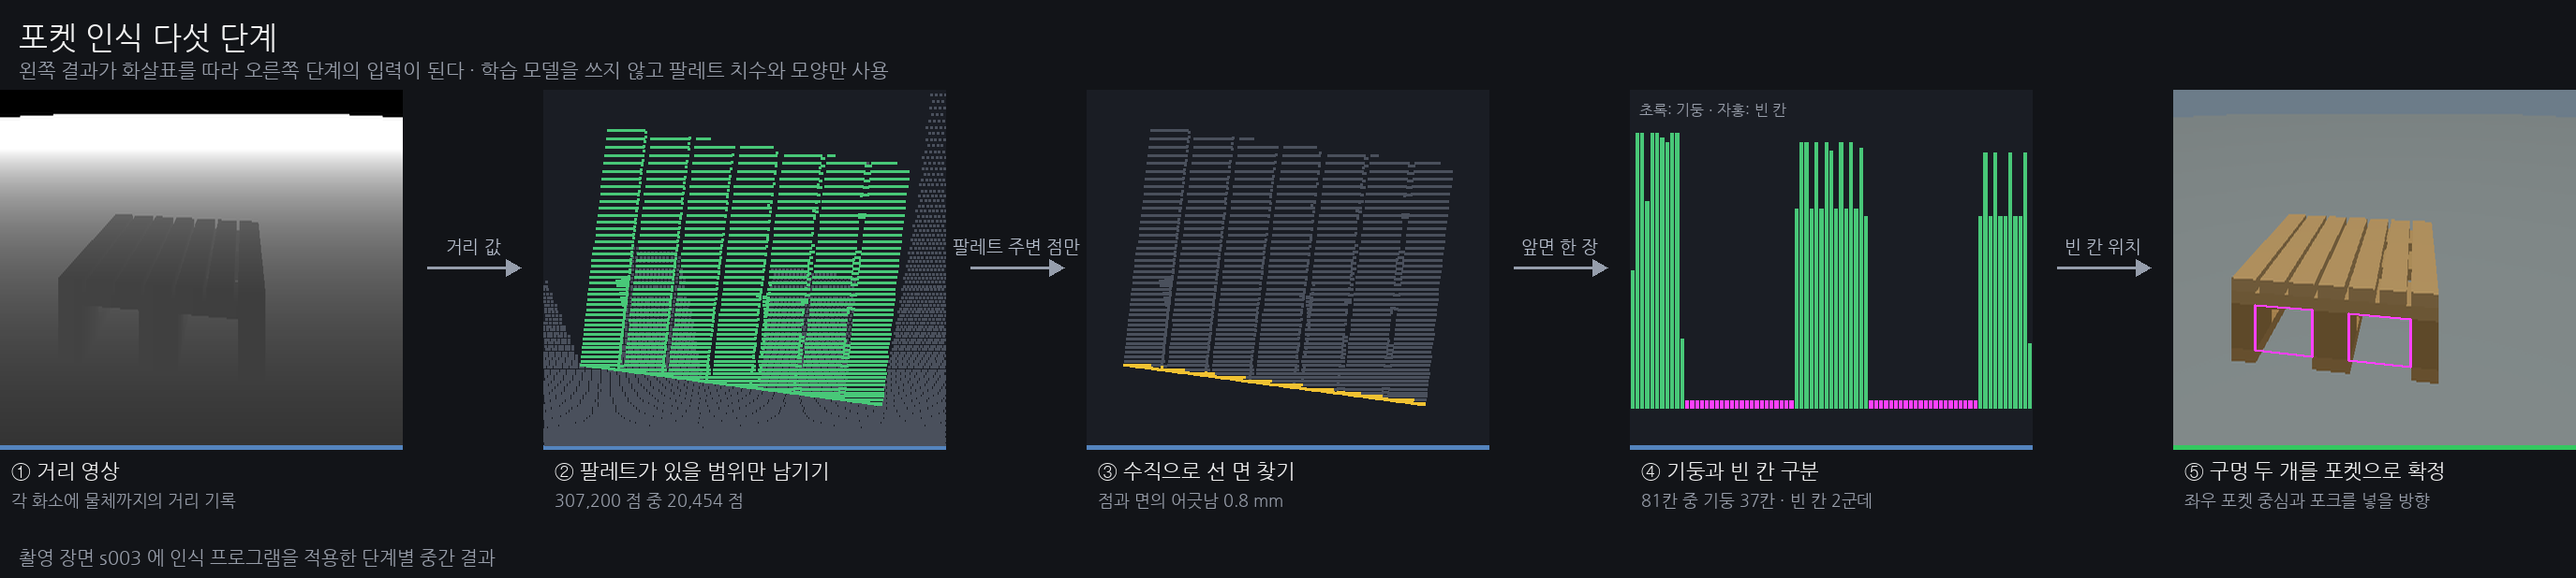
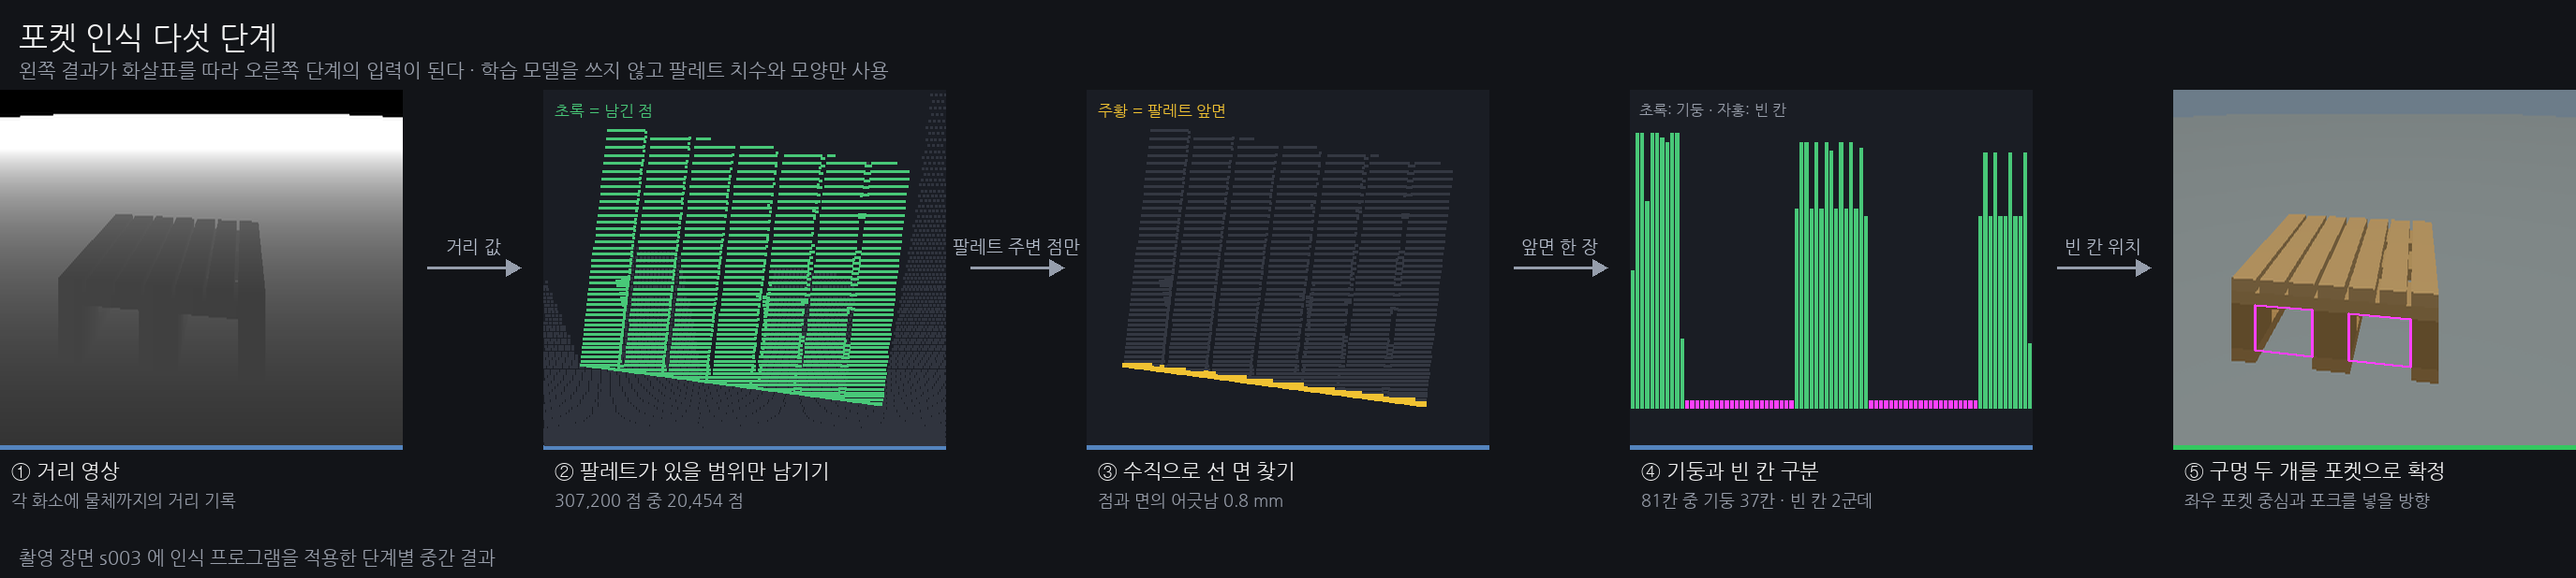
fix: redraw the figures that showed a fact without showing why
Slide 5 carried two renders of a forklift next to a pallet. They proved pallets
come in sizes; they did not show why this chassis cannot use a standard one.
The five candidates now share a baseline and a scale, with one line at the
fork's 420 mm: the part of each pallet the forks never reach is visible as
area, and the two over the 10 kg limit are marked.

Slide 9's chart asked the reader to hold two directions at once -- a long bar
was good for detection rate and bad for the errors. Every row now states its
own rule and its verdict.

Slide 3's scan was unlabelled dots; they are named 벽, 기둥, 상자 now, and the
pallet outline says 반사 없음. Slide 4's stages two and three were the same grey
cloud, so the discarded points are dimmer and the chosen face is labelled.

Claude-Session: https://claude.ai/code/session_01EDwbqCR7d7ymZ6Gm99cASC

Changed region(s): [[0.1855, 0.3074, 0.3709, 0.7994], [0.4327, 0.1845, 0.5873, 0.7071], [0.2164, 0.1845, 0.2473, 0.2152]]

diff --git a/week-03/index.html b/week-03/index.html
@@ -70,7 +70,7 @@ EPAL 6 캡처와 평가: docs/validation/2026-09-14-epal6-capture-and-evaluation
 [/Sources]" style="background:#fff">
 <x-import component-from-global-scope="UOSSlideDS.ContentSlide" hint-size="100%,100%" title="04  시험용 팔레트 선정"><div class="slide-body">
 <h2 class="headline">표준 팔레트는 무겁고 크다</h2>
-<figure class="shot wide"><img class="media" src="assets/15_pallet_choice.png" alt="포크를 넣은 채로 EPAL 6과 T11 곱하기 0.6을 나란히 비교"><figcaption class="small muted">포크를 넣은 상태 · MuJoCo</figcaption></figure>
+<figure class="shot wide"><img class="media" src="assets/15_pallet_choice.png" alt="후보 팔레트 다섯 개를 같은 축척으로 놓고 포크 길이에서 가로선을 그은 비교"><figcaption class="small muted">같은 축척 · 갈색이 포크가 닿는 부분</figcaption></figure>
 <div class="takeaway">T11 × 0.6 · 660 × 660 × 90 mm 제작</div>
 <div class="foot"><span>출처: ADR 0002</span><span>05 / 12</span></div></div></x-import>
 </section>

diff --git a/week-03/build_deck.py b/week-03/build_deck.py
@@ -73,7 +73,7 @@ add('포켓 인식 처리 과정', '03  포켓 인식 처리 과정', 55, f"""
 # ----------------------------------------------------------------- 5
 add('시험용 팔레트 선정', '04  시험용 팔레트 선정', 50, f"""
 <h2 class="headline">표준 팔레트는 무겁고 크다</h2>
-{figure('15_pallet_choice.png', '포크를 넣은 채로 EPAL 6과 T11 곱하기 0.6을 나란히 비교', '포크를 넣은 상태 · MuJoCo')}
+{figure('15_pallet_choice.png', '후보 팔레트 다섯 개를 같은 축척으로 놓고 포크 길이에서 가로선을 그은 비교', '같은 축척 · 갈색이 포크가 닿는 부분')}
 <div class="takeaway">T11 × 0.6 · 660 × 660 × 90 mm 제작</div>
 """,
     """시험에 사용할 팔레트 규격을 선정하였다. 조사한 국내 표준 대여 품목에는 한 변이 1000 밀리미터 미만인 규격이 없었고, 시장 전체에서도 짧은 변의 최소 길이는 740 밀리미터였다. 차체 카탈로그의 포크 적재 한도는 10 킬로그램이다. 유럽식 하프 팔레트인 EPAL 6은 자체 무게가 9에서 10 킬로그램이어서 화물을 더 실을 여유가 없다. 포크 길이도 420 밀리미터로 표준 팔레트의 절반까지 들어가지 못한다. 따라서 국내 표준 T11의 각 치수를 0.6배로 줄여, 가로·세로·높이가 660 × 660 × 90 밀리미터인 시험용 팔레트를 제작하기로 하였다. 크기만 줄이고 모양의 비율은 유지하므로, 인식 프로그램은 표준 크기와 축소 크기에서 모두 동작해야 한다.""",
